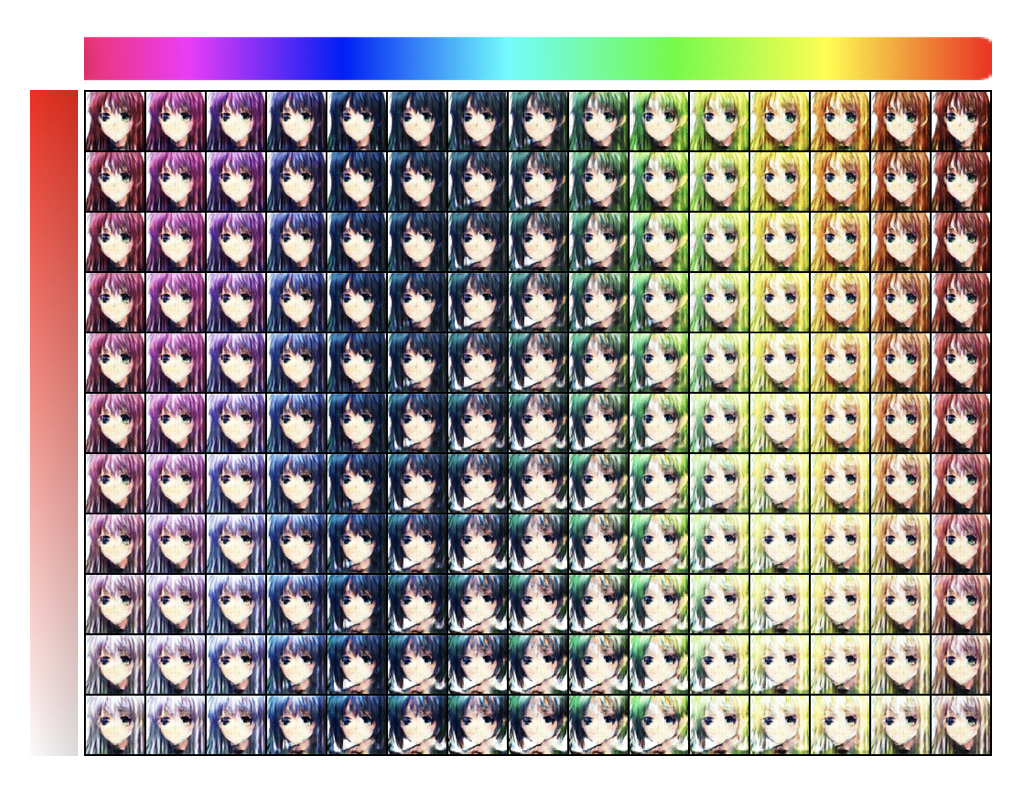
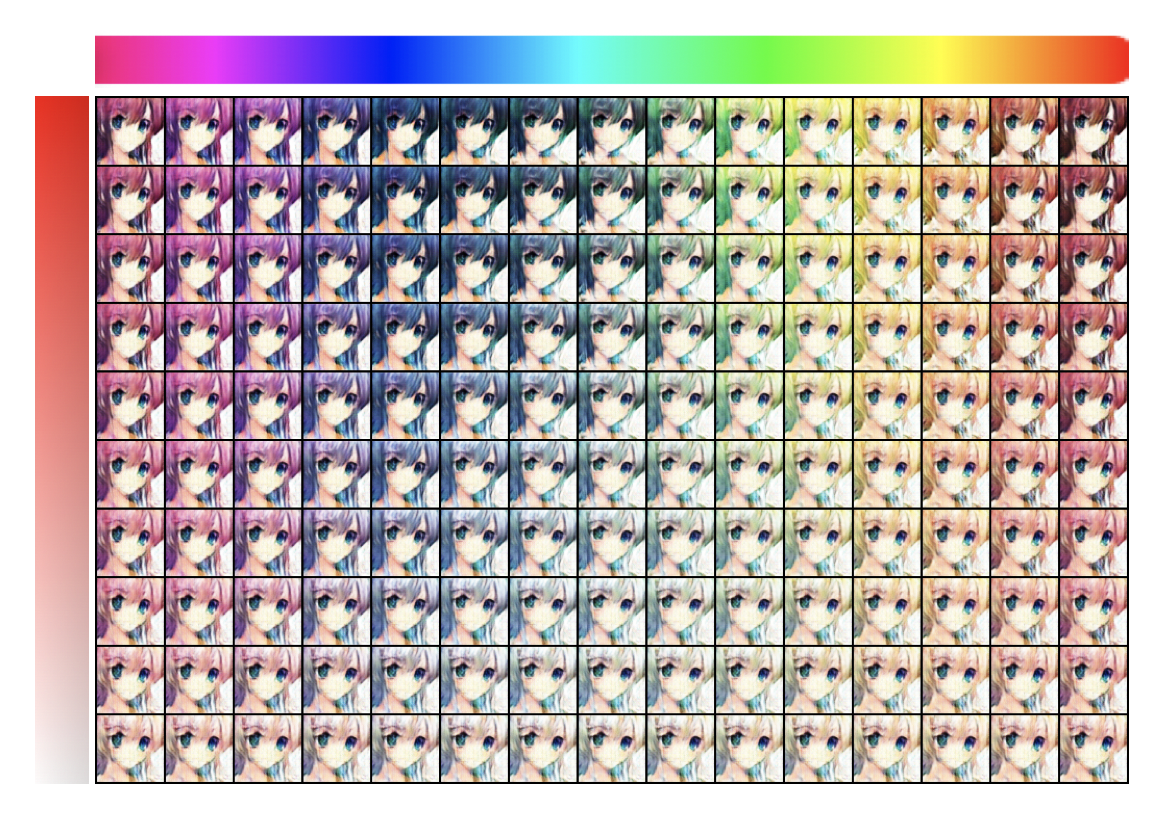
update readme

diff --git a/hw3/hw3-2/rgb.py b/hw3/hw3-2/rgb.py
@@ -57,10 +57,12 @@ if __name__ == '__main__':
     n_row = 15
     for x in np.arange(0, 1 + 0.1, 0.1):
         curr = (1 - x) * red + x * white
-        rgb_range = np.ceil(np.max(curr) - np.min(curr))
+        # print(curr)
+        rgb_range = np.ceil(np.max(curr[0:3]) - np.min(curr[0:3]))
         sample_rate = rgb_range * len(stage) // n_row
         # print(curr)
         # print(rgb_range * len(stage))
+        # input()
         # print(sample_rate)
         count = 0
         for s in range(len(stage)):
@@ -78,6 +80,6 @@ if __name__ == '__main__':
                 # print(condition)
                 # input()
         # print(count)
-
+        # print(image_container.shape[0])
 
     save_image(image_container, os.path.join(opt.save_dir, 'result.png'), nrow = n_row, normalize = True)
